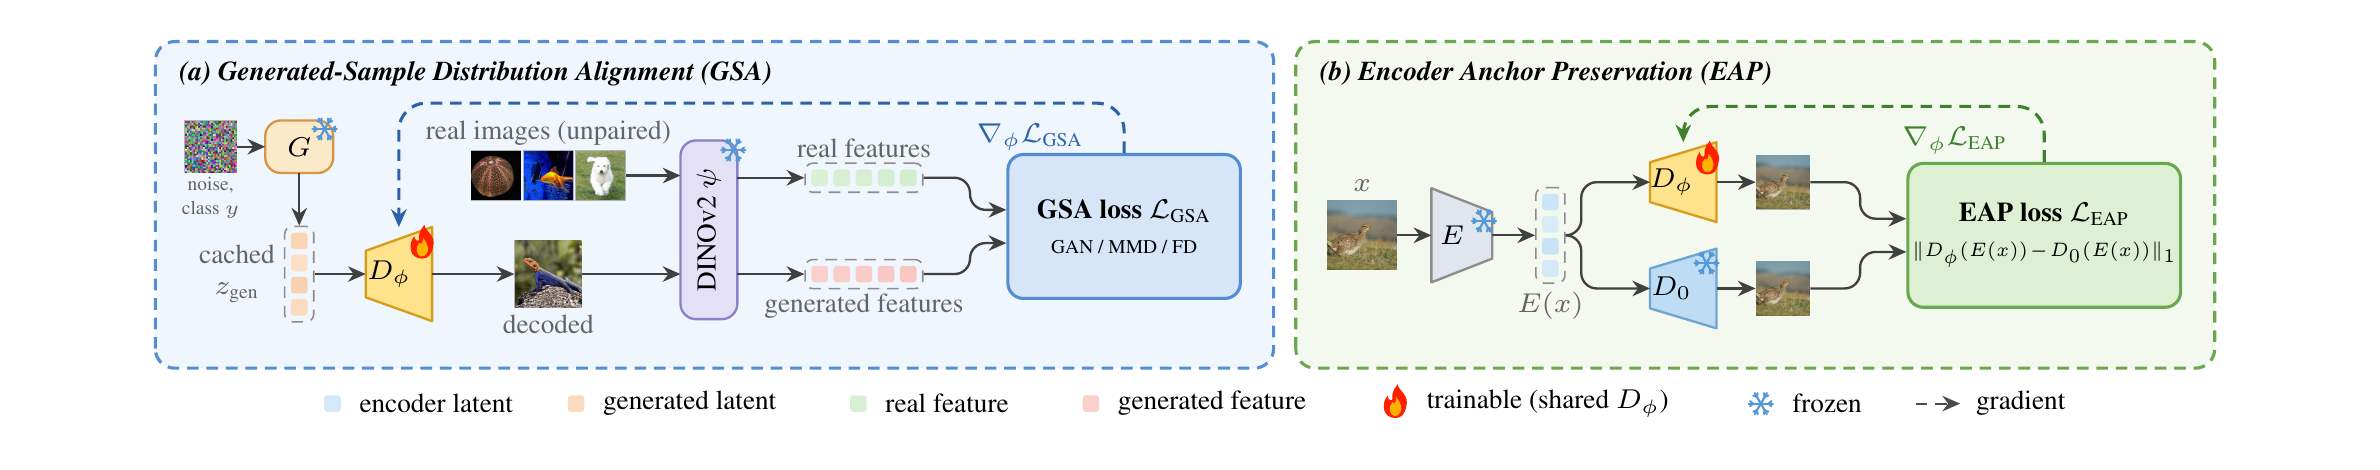
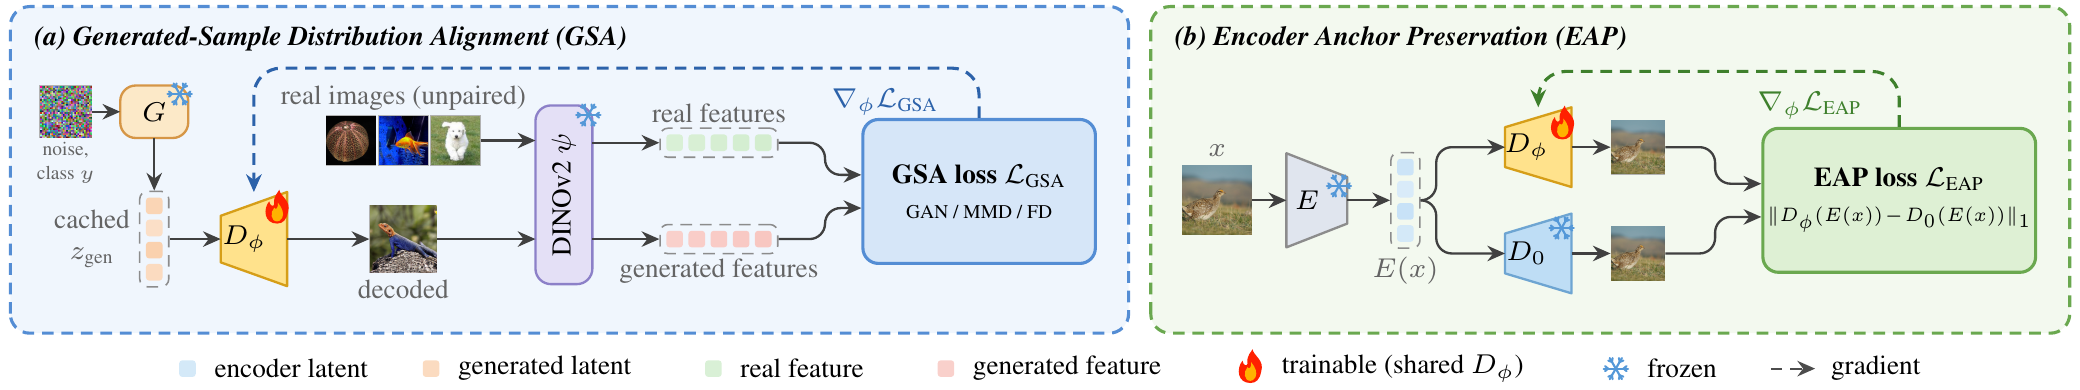
README: tightly cropped method figure at full width

diff --git a/README.md b/README.md
@@ -53,7 +53,7 @@ Fine-tuning a decoder on generated latents runs into two problems. SAD has one m
 2. **Without pairs, the decoder drifts away from the latent space** and forgets how to reconstruct.
    → *Encoder Anchor Preservation (EAP)* keeps the decoder close to the original one on encoder latents with a simple L1 anchor.
 
-<div align="center"><img src="assets/method.png" width="900"></div>
+<div align="center"><img src="assets/method.png" width="100%"></div>
 
 ### The "aha" part: where you align matters
 
